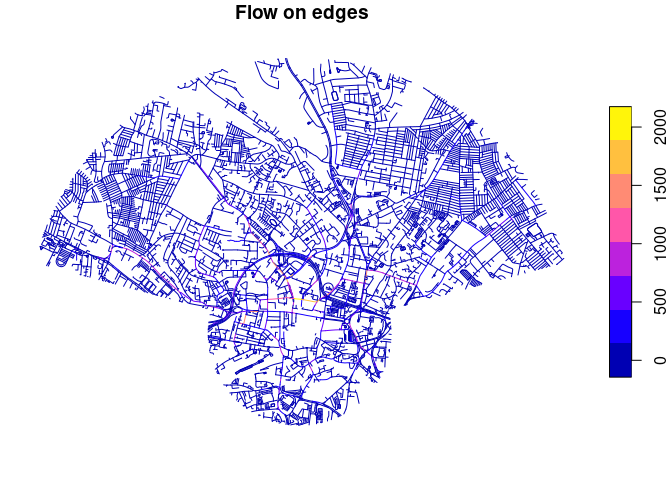
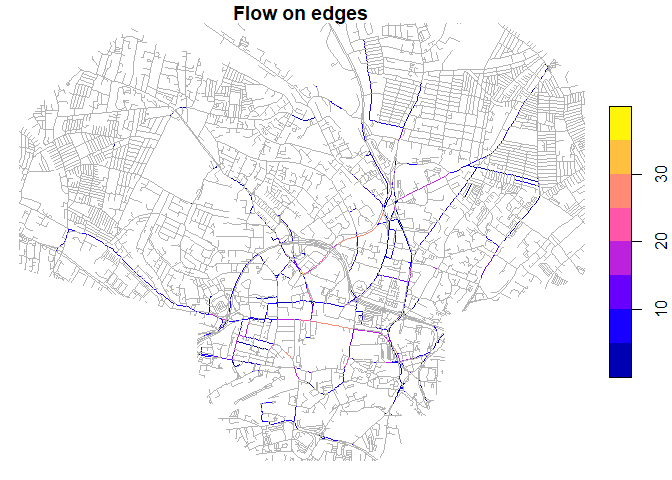
minor fixes to AoN code and plot

diff --git a/README.md b/README.md
@@ -6,6 +6,7 @@
 <!-- badges: start -->
 
 [![R-CMD-check](https://github.com/Robinlovelace/sfrouting/actions/workflows/R-CMD-check.yaml/badge.svg)](https://github.com/Robinlovelace/sfrouting/actions/workflows/R-CMD-check.yaml)
+
 <!-- badges: end -->
 
 The goal of sfrouting is to enable people to generate routes for
@@ -72,7 +73,7 @@ plot(osm_drive["highway"])
 
 ``` r
 nrow(osm_drive)
-#> [1] 4975
+#> [1] 4999
 # mapview::mapview(osm_drive, zcol = "highway", lwd = 1)
 ```
 
@@ -89,7 +90,7 @@ sfn_edges = sfn |>
   st_as_sf()
 graph = sfn_to_cpprouting(sfn)
 nrow(graph$coords)
-#> [1] 7055
+#> [1] 7089
 ```
 
 Let’s calculate a route from Scott Hall Road to University Road:
@@ -171,7 +172,7 @@ n_trips = 1000
 trips = data.frame(
   from = sample(nodes$ID, n_trips, replace = TRUE),
   to = sample(nodes$ID, n_trips, replace = TRUE),
-  demand = round(runif(1, 10, n_trips))
+  demand = round(runif(n_trips,1, 10))
 )
 aon = cppRouting::get_aon(
   Graph = graph,
@@ -181,9 +182,9 @@ aon = cppRouting::get_aon(
 )
 head(aon)
 #>   from   to      cost flow
-#> 1    1    2 123.73172  290
-#> 2    1  503 139.52294  580
-#> 3    1 1864  88.44373  870
+#> 1    1    2 123.73172    3
+#> 2    1  504 139.52294   16
+#> 3    1 1863  88.44373    7
 #> 4    3    4  69.67965    0
 #> 5    5    6 119.14023    0
 #> 6    7    8 126.62139    0
@@ -191,14 +192,19 @@ sfn_aon = left_join(
   sfn_edges |>
     mutate(across(from:to, as.character)),
   aon
-)
+) |> 
+  mutate(flow = if_else(flow==0,NA_integer_,flow))
 #> Joining with `by = join_by(from, to)`
 #> Warning in sf_column %in% names(g): Detected an unexpected many-to-many relationship between `x` and `y`.
 #> ℹ Row 19 of `x` matches multiple rows in `y`.
-#> ℹ Row 1989 of `y` matches multiple rows in `x`.
+#> ℹ Row 1992 of `y` matches multiple rows in `x`.
 #> ℹ If a many-to-many relationship is expected, set `relationship =
 #>   "many-to-many"` to silence this warning.
-plot(sfn_aon["flow"], main = "Flow on edges")
+
+plot(sfn_aon[!is.na(sfn_aon$flow), "flow"],
+     main = "Flow on edges",lwd = 1.5,reset = FALSE)
+plot(sfn_aon[is.na(sfn_aon$flow),"geometry"],
+     main = "Flow on edges",add=TRUE,col = "gray70")
 ```
 
 <img src="man/figures/README-traffic-1.png" width="100%" />
